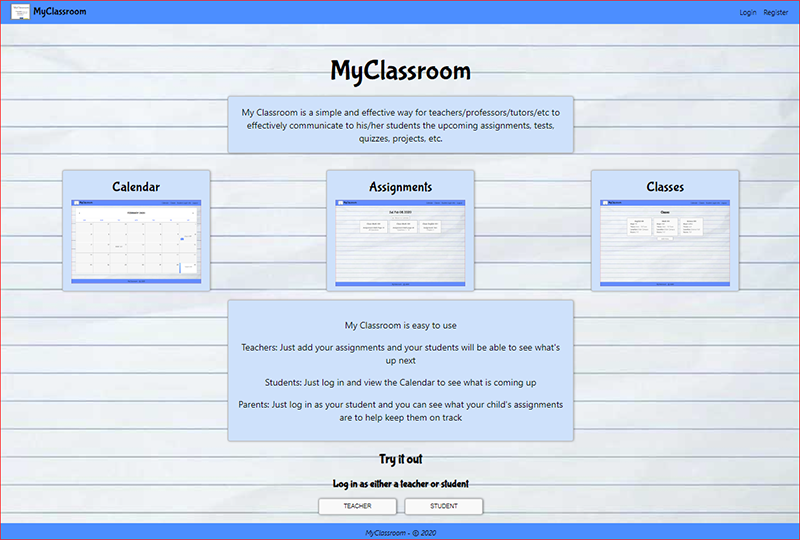
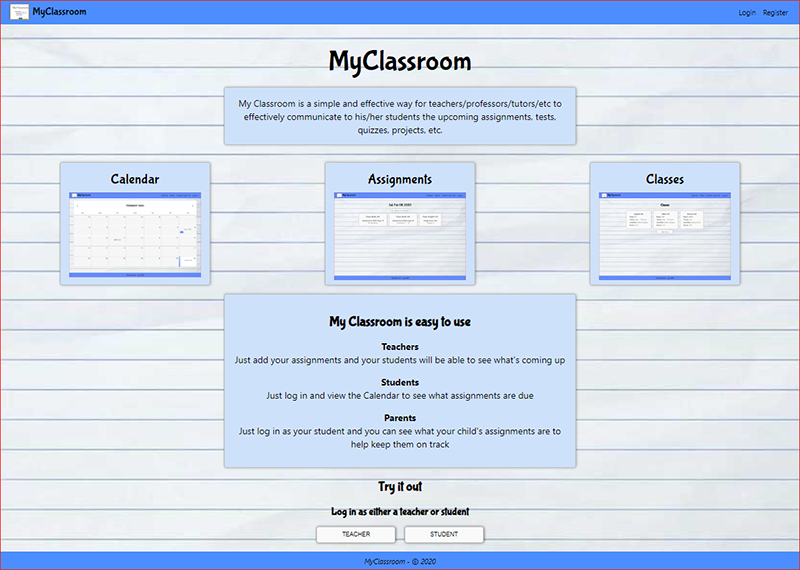
readme and image update

Changed region(s): [[0.0, 0.0, 1.0, 1.0]]

diff --git a/src/Components/LandingPage/Landing.js b/src/Components/LandingPage/Landing.js
@@ -107,16 +107,22 @@ export default class Landing extends Component {
         </div>
 
         <div className='Landing__contents'>
-          <p>My Classroom is easy to use</p>
+          <h2>My Classroom is easy to use</h2>
           <p>
-            Teachers: Just add your assignments and your students will be able to see what's up next
+            <span className='bold'>Teachers</span>
+            <div>Just add your assignments and your students will be able to see what's coming up</div>
           </p>
+
           <p>
-            Students: Just log in and view the Calendar to see what is coming up
+            <span className='bold'>Students</span>
+            <div>Just log in and view the Calendar to see what assignments are due</div>
           </p>
+
           <p>
-            Parents: Just log in as your student and you can see what your child's assignments are to help keep them on track
+            <span className='bold'>Parents</span>
+            <div>Just log in as your student and you can see what your child's assignments are to help keep them on track</div>
           </p>
+
         </div>
 
         <div className='Landing__demo'>

diff --git a/README.md b/README.md
@@ -2,19 +2,19 @@
 
 My Classroom is a simple and effective way for teachers/professors/tutors/etc to effectively communicate to his/her students the upcoming assignments, tests, quizzes, projects, etc.
 
-My Classroom is easy to use
+**Teachers:** Just add your assignments and your students will be able to see what's coming up
 
-**Teachers:** Just add your assignments and your students will be able to see what's up next
-
-**Students:** Just log in and view the Calendar to see what is coming up
+**Students:** Just log in and view the Calendar to see what assignments are due
 
 **Parents:** Just log in as your student and you can see what your child's assignments are to help keep them on track
 
 ## Check it out
+***
 [https://myclassroom.now.sh/](https://myclassroom.now.sh/)
 
 
 ## Screenshots
+***
 #### Landing page: [https://myclassroom.now.sh/](https://myclassroom.now.sh/)
 ![Landing Page](./src/Components/Images/Landing.png)
 
@@ -29,22 +29,79 @@ My Classroom is easy to use
 
 
 ## MyClassroom API
-**/api/assignments**
-CRUD operations for assignments
+*******
+### **Get all Assignments**
+```
+GET /api/assignments
+```
+### **Get an Assignment**
+```
+GET /api/assignments/id
+```
 
-**/api/classes/:**
-CRUD operations for classes
+### **Add an Assignment**
+```
+POST /api/assignments
+```
 
-**/api/users/:**
-CR operations for users
+### **Delete an Assignment**
+```
+DELETE /api/assignments/id
+```
 
-**/api/auth/:**
-Validate Authorization
+### **Update an Assignment**
+```
+PATCH /api/assignments/id
+```
+
+### **Get all Classes**
+```
+GET /api/classes
+```
+
+### **Get a Class**
+```
+GET /api/classes/id
+```
+
+### **Add a Class**
+```
+POST /api/classes
+```
+
+### **Delete a Class**
+```
+DELETE /api/classes/id
+```
+
+### **Update a Class**
+```
+PATCH /api/classes/id
+```
+
+### **Authenticate Login**
+```
+POST /api/auth/login
+```
+
+### **Authenticate Refresh**
+```
+POST /api/auth/refresh
+```
+
+### **Validate Users**
+```
+POST /api/users
+```
 
 ## Source Code
+```
 MyClassroom Client: [https://github.com/cableredi/MyClassroom](https://github.com/cableredi/MyClassroom)
 
 MyClassroom API: [https://github.com/cableredi/myclassroom-api](https://github.com/cableredi/myclassroom-api)
+```
 
 ## Technology Used
+```
 HTML5, SCSS/CSS, Node.js, React, Express, PostgreSQL
+```
